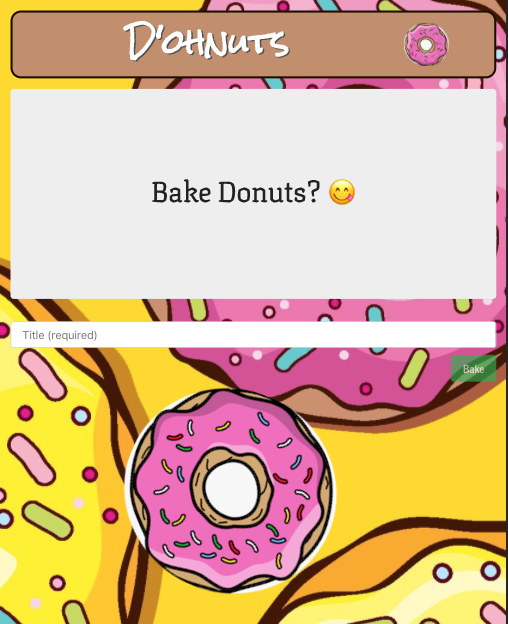
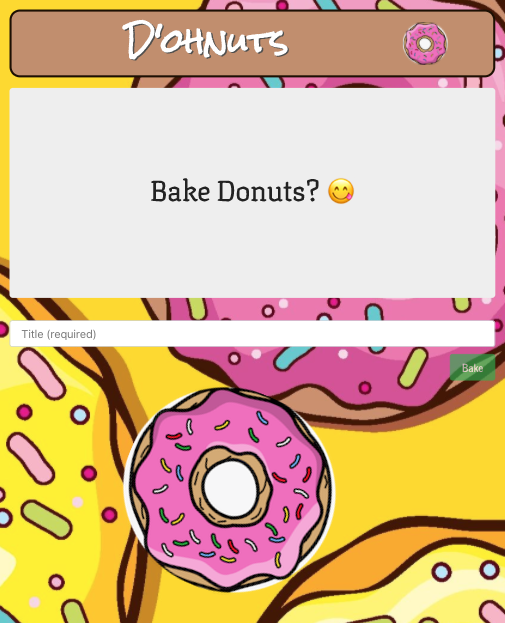
updated proxy server address and added new screenshot to readme

diff --git a/server.js b/server.js
@@ -1,7 +1,7 @@
 const express = require("express");
 const mongoose = require("mongoose");
 const app = express();
-const PORT = process.env.PORT || 3002;
+const PORT = process.env.PORT || 3001;
 const routes = require("./routes")
 
 app.use(express.urlencoded({ extended: true }));
@@ -12,6 +12,16 @@ if (process.env.NODE_ENV === "production") {
 }
 
 app.use(routes);
+
+
+// const MongoClient = require('mongodb').MongoClient;
+// const uri = "mongodb+srv://lisbethmachado:2k19Pepp$@cluster1.0lage.mongodb.net/<dbname>?retryWrites=true&w=majority";
+// const client = new MongoClient(uri, { useNewUrlParser: true });
+// client.connect(err => {
+//   const collection = client.db("donuts").collection("donuts");
+//   // perform actions on the collection object
+//   client.close();
+// });
 
 mongoose.connect(process.env.MONGO_Atlas || "mongodb://localhost/donuts",
 {

diff --git a/README.md b/README.md
@@ -32,7 +32,7 @@ Allow your inner baker to dream up custom donut recipes. Create a list of desire
       
 ## Screenshots
 ### Web Application:
-![LandingPg](./assets/landing-pg.png)
+![LandingPg](./assets/landing-page.png)
 
 ### Mobile Application:
 ![MobileView](./assets/mobile-view.png)
